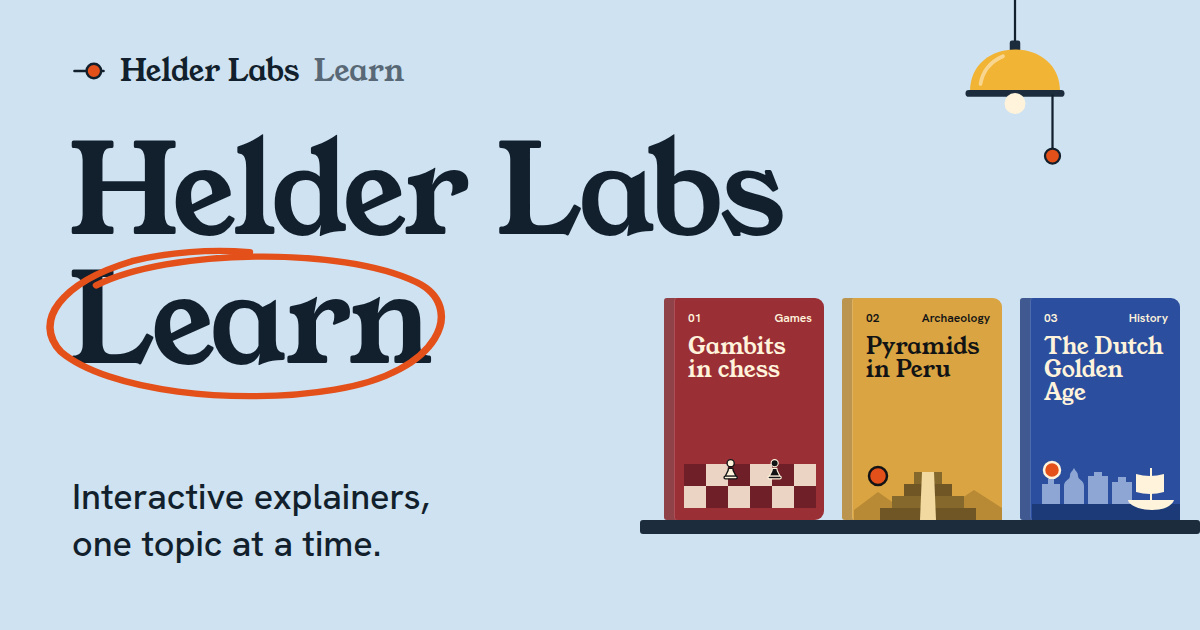
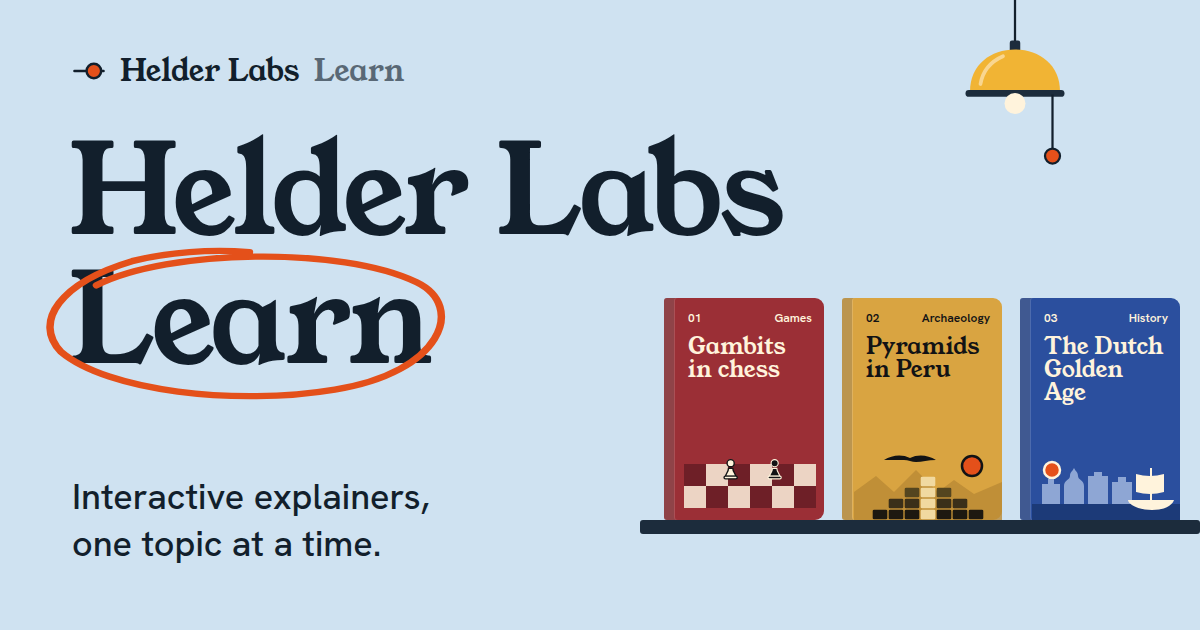
Redo the Pyramids in Peru cover
The old drawing was muddy browns on ochre and looked like a generic
stepped pyramid. New drawing, built around how the thing was made:

- A pyramid of 49 near-black blocks with a cream staircase and a small
  temple. On hover (or while visible on touch screens) the blocks drop in
  one by one, bottom tier first.
- People carrying big orange sacks climb the staircase one step at a
  time once it stands. They are drawn the way load carriers look from
  behind: sack, head, legs.
- The sun rises from behind two ranges of the Andes. A dotted ring turns
  around it.
- An Andean condor (finger feathers, white collar) glides across the sky
  and banks slightly.
- High contrast: near-black stone, cream stairs, one orange sun on the
  ochre cover. Caption: "built by hand, block by block".

Also updates the link preview image and the README line about this cover.

Claude-Session: https://claude.ai/code/session_01HA66kq9T6vgRmD5TedWJvV

Changed region(s): [[0.7092, 0.7238, 0.8325, 0.8444]]

diff --git a/README.md b/README.md
@@ -51,7 +51,7 @@ Three steps.
 - `class="m"` with `style="--dx: 40px"` (or `--dy`) slides a shape when the cover is hovered. `class="grow"` with `style="--g: 0.1"` stretches it upwards. Add `--i: 2` to delay it by a few steps.
 - Plain `<text>` is styled for you (small, in the text color).
 
-For bigger animations, a drawing can contain its own `<style>` block. The three current covers do this: `gambits-in-chess.svg` plays a whole little story on a board, `pyramids-in-peru.svg` moves the sun across the sky with the shadow following it, and `the-dutch-golden-age.svg` sails a ship past canal houses. A few rules keep this tidy:
+For bigger animations, a drawing can contain its own `<style>` block. The three current covers do this: `gambits-in-chess.svg` plays a whole little story on a board, `pyramids-in-peru.svg` builds a pyramid block by block while people carry loads up the stairs and a condor glides past, and `the-dutch-golden-age.svg` sails a ship past canal houses. A few rules keep this tidy:
 
 - Start your class names and `@keyframes` names with a short prefix for the topic (`ch-`, `pe-`, `nl-`), so two drawings never clash.
 - Put the selector `:is(a, .head-art):is(:hover, :focus-visible, .is-playing)` in front of a rule to run an animation only while the cover is hovered, focused or playing. The same drawing is shown on the topic page, where `.head-art` is the target. `.is-playing` is set by `src/scripts/cover-play.ts`: on touch screens, which have no hover, a cover plays while it is mostly on screen.
